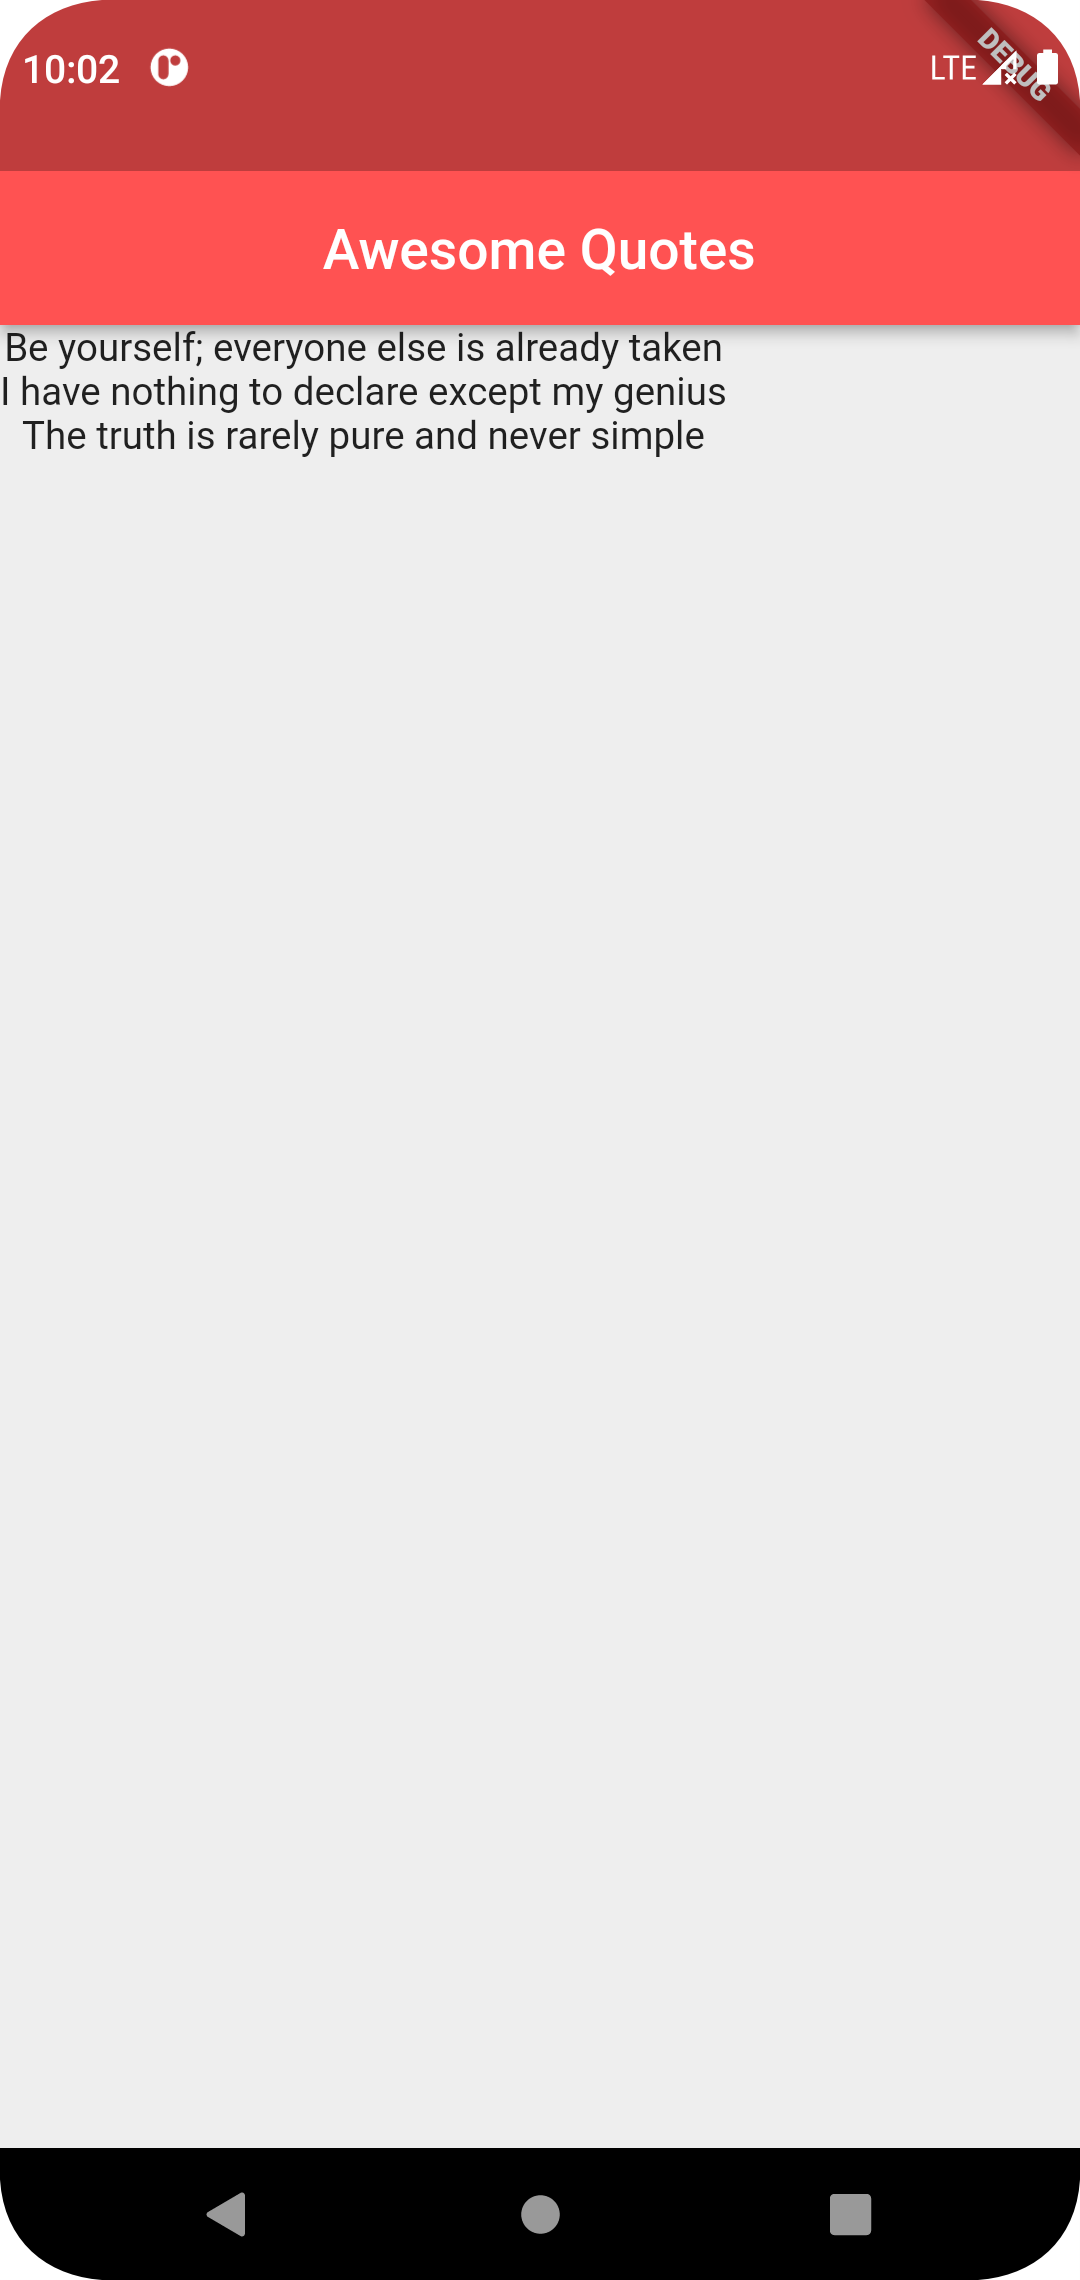
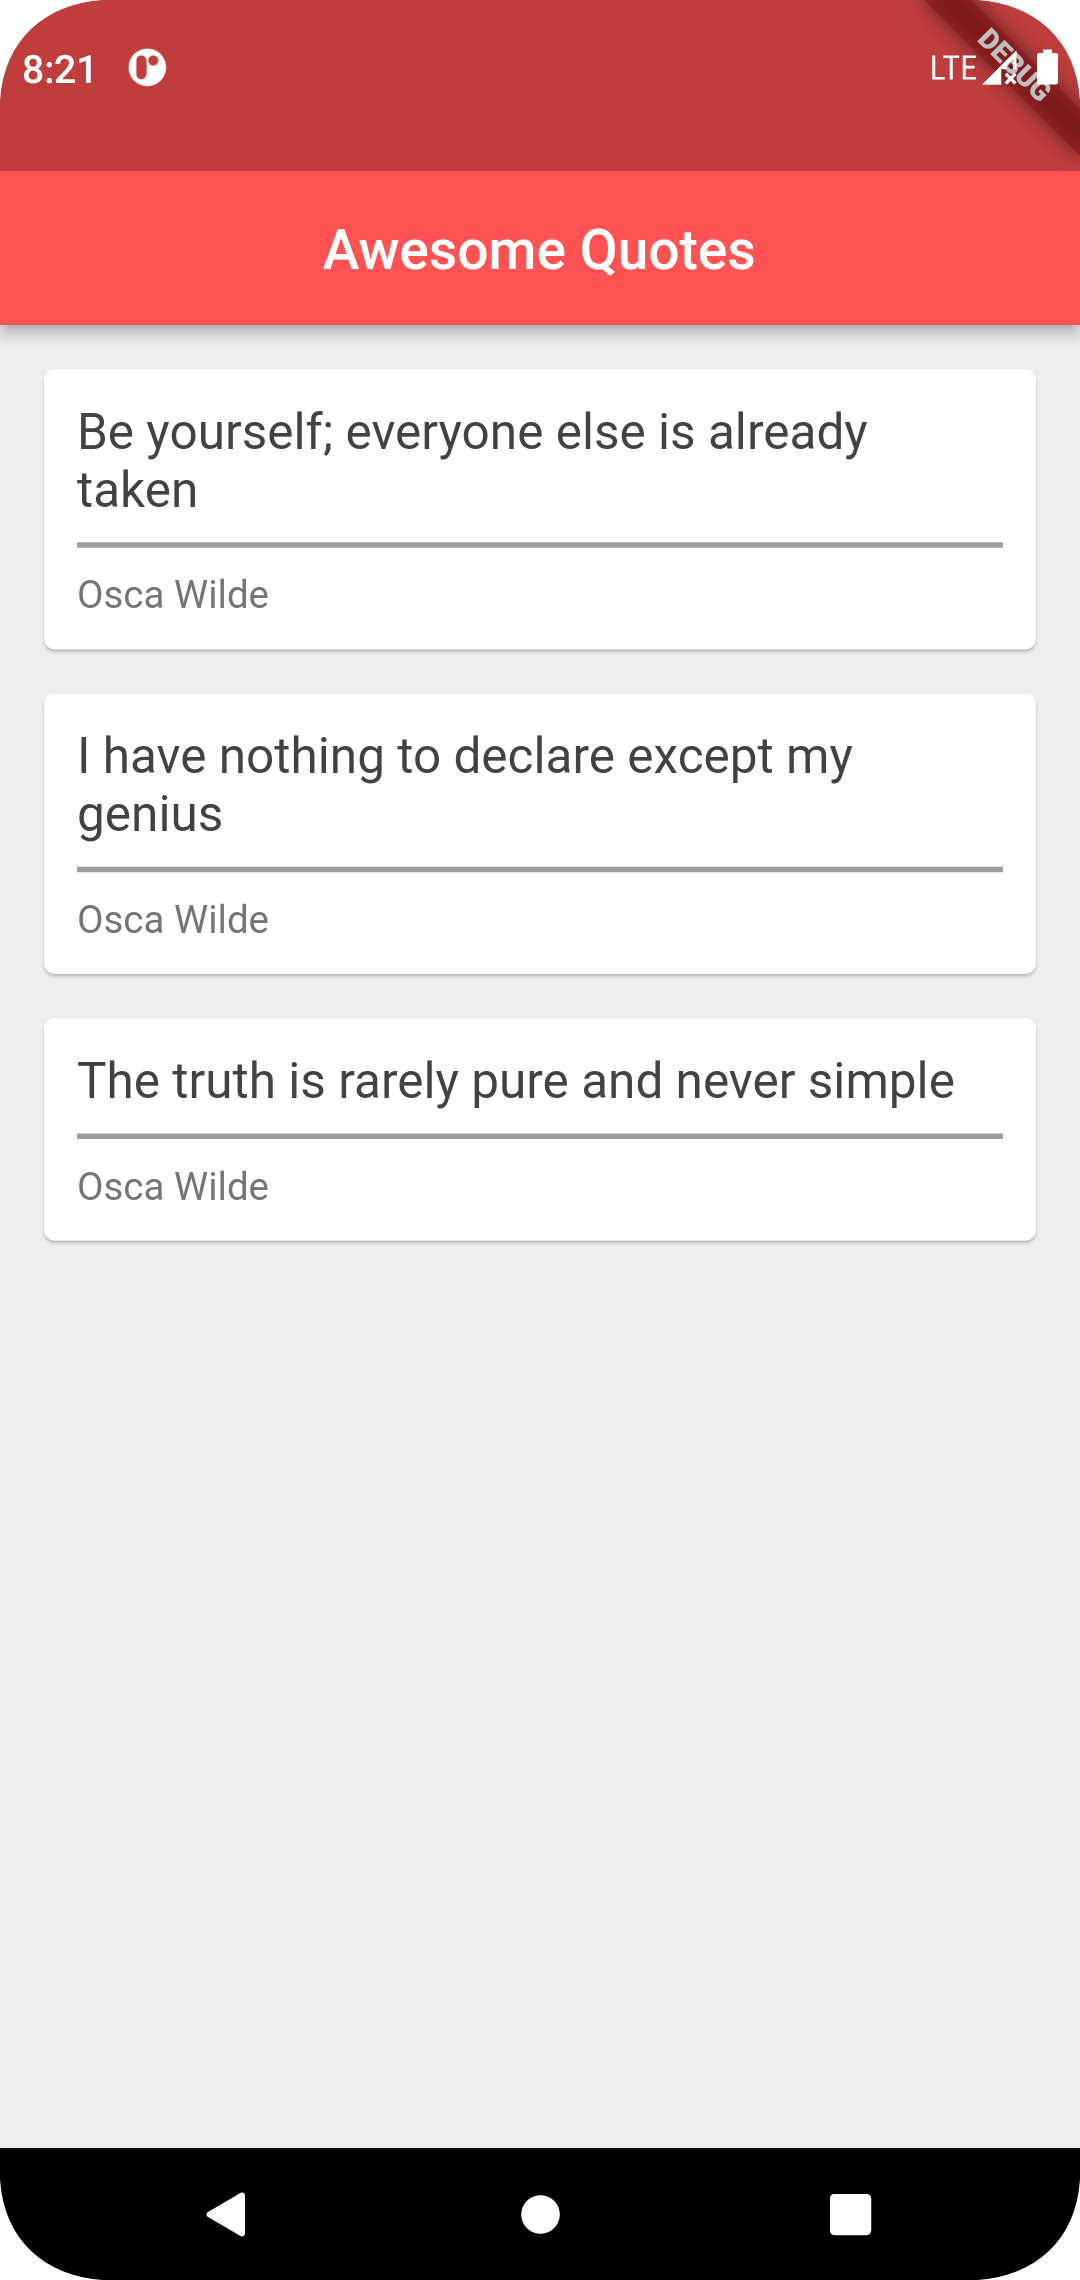
Cards custom widget functions

diff --git a/My app/myapp/lib/main.dart b/My app/myapp/lib/main.dart
@@ -29,7 +29,40 @@ class _HomeState extends State<Home> {
         backgroundColor: Colors.redAccent,
       ),
       body: Column(
-        children: quotes.map((quote) => Text('${quote.text} - ${quote.author}')).toList(),
+        children: quotes.map((quote) => quoteTemplate(quote)).toList(),
+      ),
+    );
+  }
+
+  Widget quoteTemplate(quote){
+    return Card(
+      margin: const EdgeInsets.fromLTRB(16.0, 16.0, 16.0, 0.0),
+      child: Padding(
+        padding: const EdgeInsets.all(12.0),
+        child: Column(
+          crossAxisAlignment: CrossAxisAlignment.stretch,
+          children: <Widget>[
+            Text(
+              quote.text,
+              style: TextStyle(
+                fontSize: 18.0,
+                color: Colors.grey[800],
+              ),
+            ),
+            Divider(
+              height: 20.0,
+              thickness: 2.0,
+              color: Colors.grey[500],
+            ),
+            Text(
+              quote.author,
+              style: TextStyle(
+                fontSize: 14.0,
+                color: Colors.grey[600],
+              ),
+            ),
+          ],
+        ),
       ),
     );
   }
